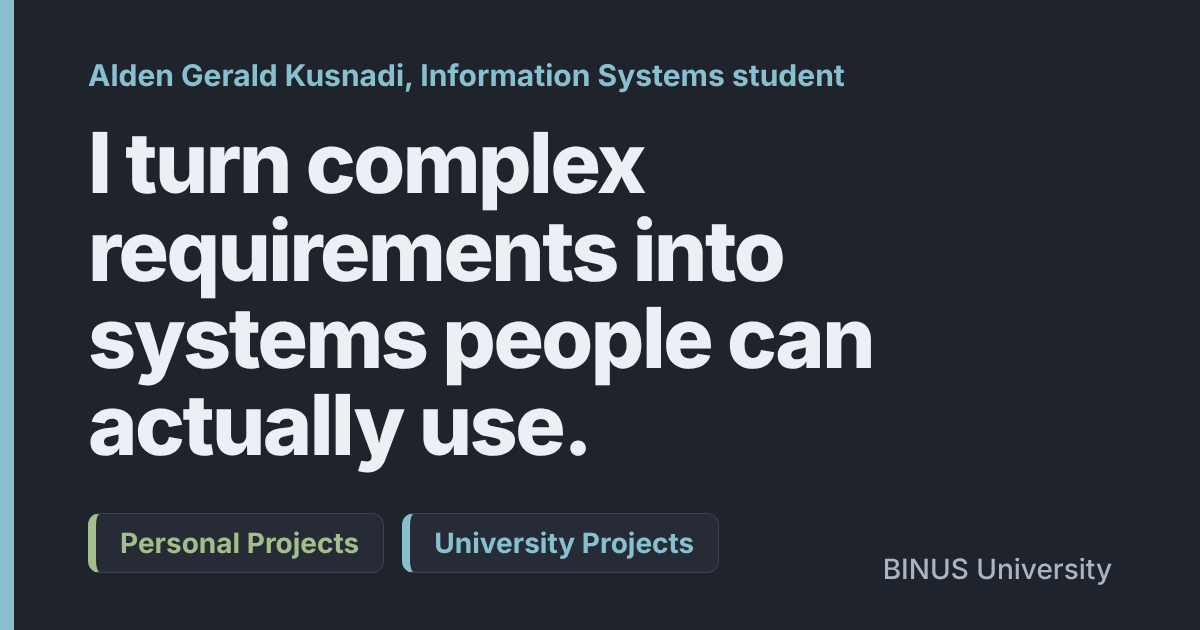
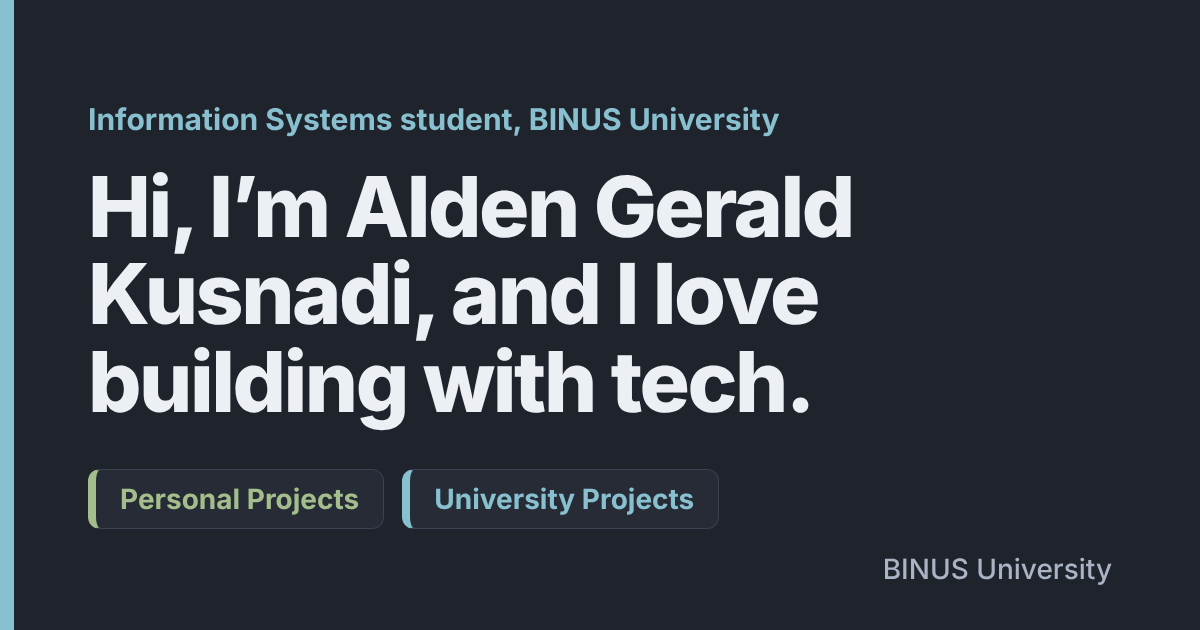
Replace hero headline with a personal intro
Open with a friendly introduction (name, love of tech, BINUS Kemanggisan,
Information Systems) followed by what the projects taught, and regenerate
the social preview image to match.

Claude-Session: https://claude.ai/code/session_01ADi9Rfr8UzwcPMP77vzKZ1

Changed region(s): [[0.0617, 0.0905, 0.74, 0.9048]]

diff --git a/index.html b/index.html
@@ -16,7 +16,7 @@
   <meta property="og:image" content="https://alden-gerald.github.io/academic-portfolio/og.png">
   <meta property="og:image:width" content="1200">
   <meta property="og:image:height" content="630">
-  <meta property="og:image:alt" content="Alden Gerald Kusnadi, Information Systems student: I turn complex requirements into systems people can actually use.">
+  <meta property="og:image:alt" content="Hi, I’m Alden Gerald Kusnadi, and I love building with tech. Information Systems student at BINUS University.">
   <meta name="twitter:card" content="summary_large_image">
 
   <link rel="icon" href="favicon.svg" type="image/svg+xml">
@@ -48,9 +48,10 @@
     <section class="hero" id="top" aria-labelledby="hero-title">
       <div class="shell hero__inner">
         <div class="hero__copy">
-          <p class="kicker">Information Systems student, BINUS University</p>
-          <h1 id="hero-title">I turn complex requirements into systems people can actually use.</h1>
-          <p class="lead">I’m Alden Gerald Kusnadi, with a focus on cloud computing. I take a problem from requirements and architecture through to data, code, and interface. Below are <span translate="no">Lumina</span>, a local-first AI workspace I built on my own, and four university projects in cloud storage, system design, and database applications. Every repository is public.</p>
+          <p class="kicker">BINUS University, Kemanggisan campus</p>
+          <h1 id="hero-title">Hi, I’m Alden Gerald Kusnadi, and I love building with tech.</h1>
+          <p class="lead">I’m currently studying at BINUS University, Kemanggisan campus, majoring in Information Systems.</p>
+          <p class="lead lead--second">Building these projects taught me to ask what a system needs before choosing how to build it: weighing trade-offs in cloud storage, separating a design into layers, validating input at the edges, and keeping risky changes behind checks. Below are <span translate="no">Lumina</span>, a local-first AI workspace I built on my own, and four university projects. Every repository is public.</p>
           <div class="actions">
             <a class="button button--primary" href="#personal">View Lumina</a>
             <a class="button" href="#university">University Projects</a>

diff --git a/style.css b/style.css
@@ -161,6 +161,8 @@ h1 {
   font-size: clamp(1.05rem, 2.4vw, 1.25rem);
 }
 
+.lead + .lead { margin-top: 14px; }
+
 .actions { display: flex; flex-wrap: wrap; gap: 12px; margin-top: 32px; }
 
 .button {
